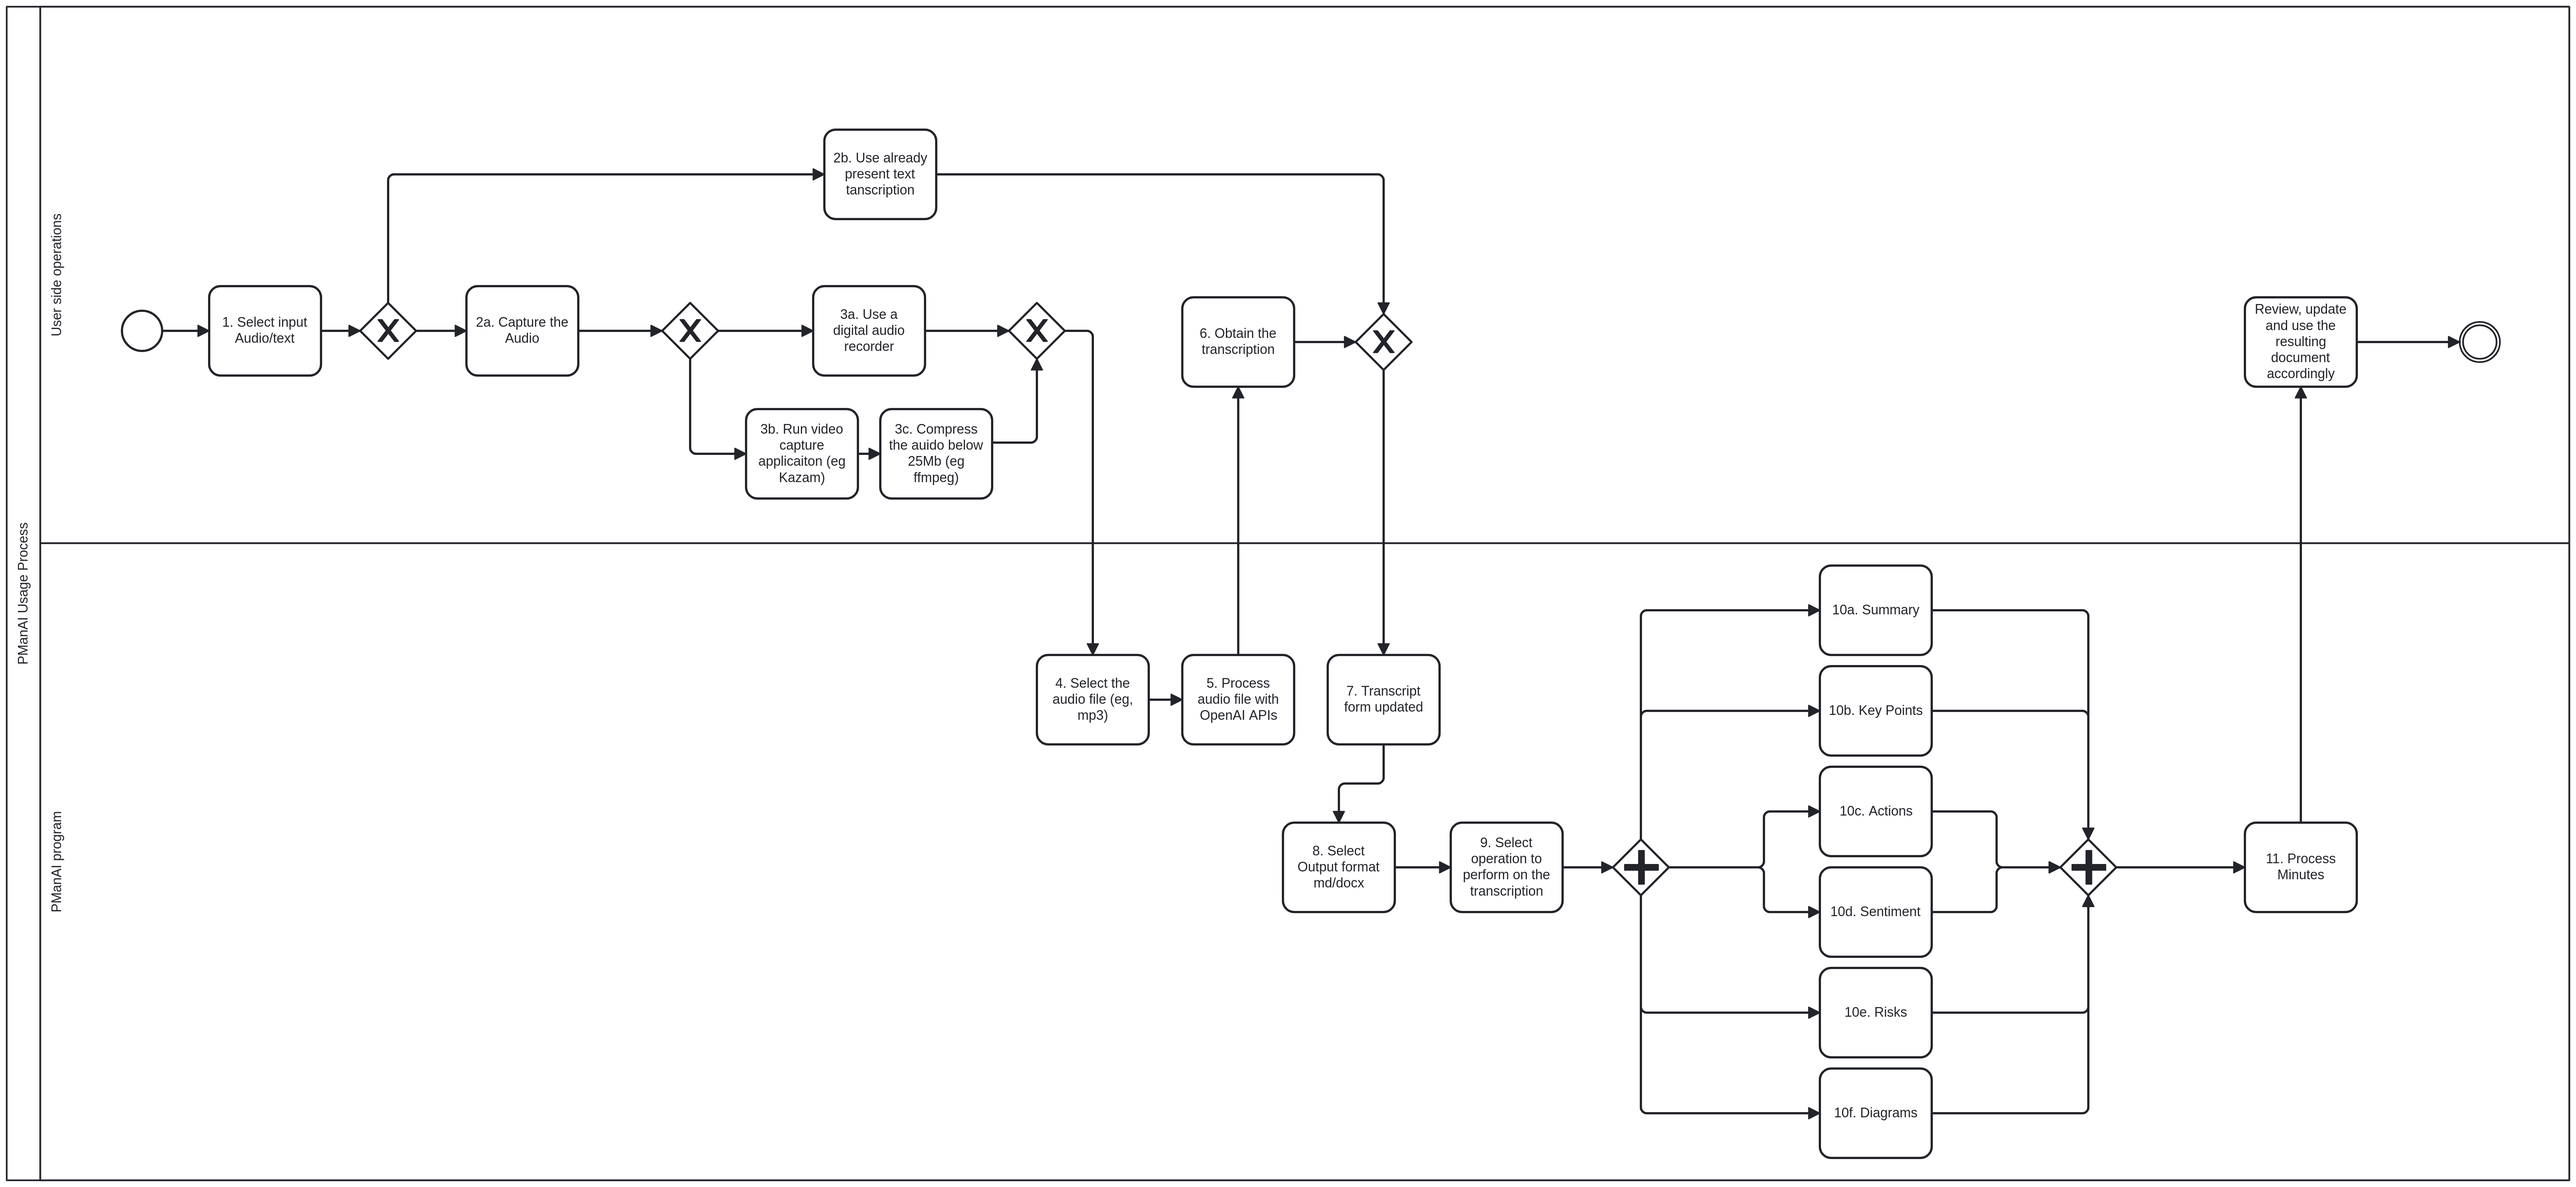
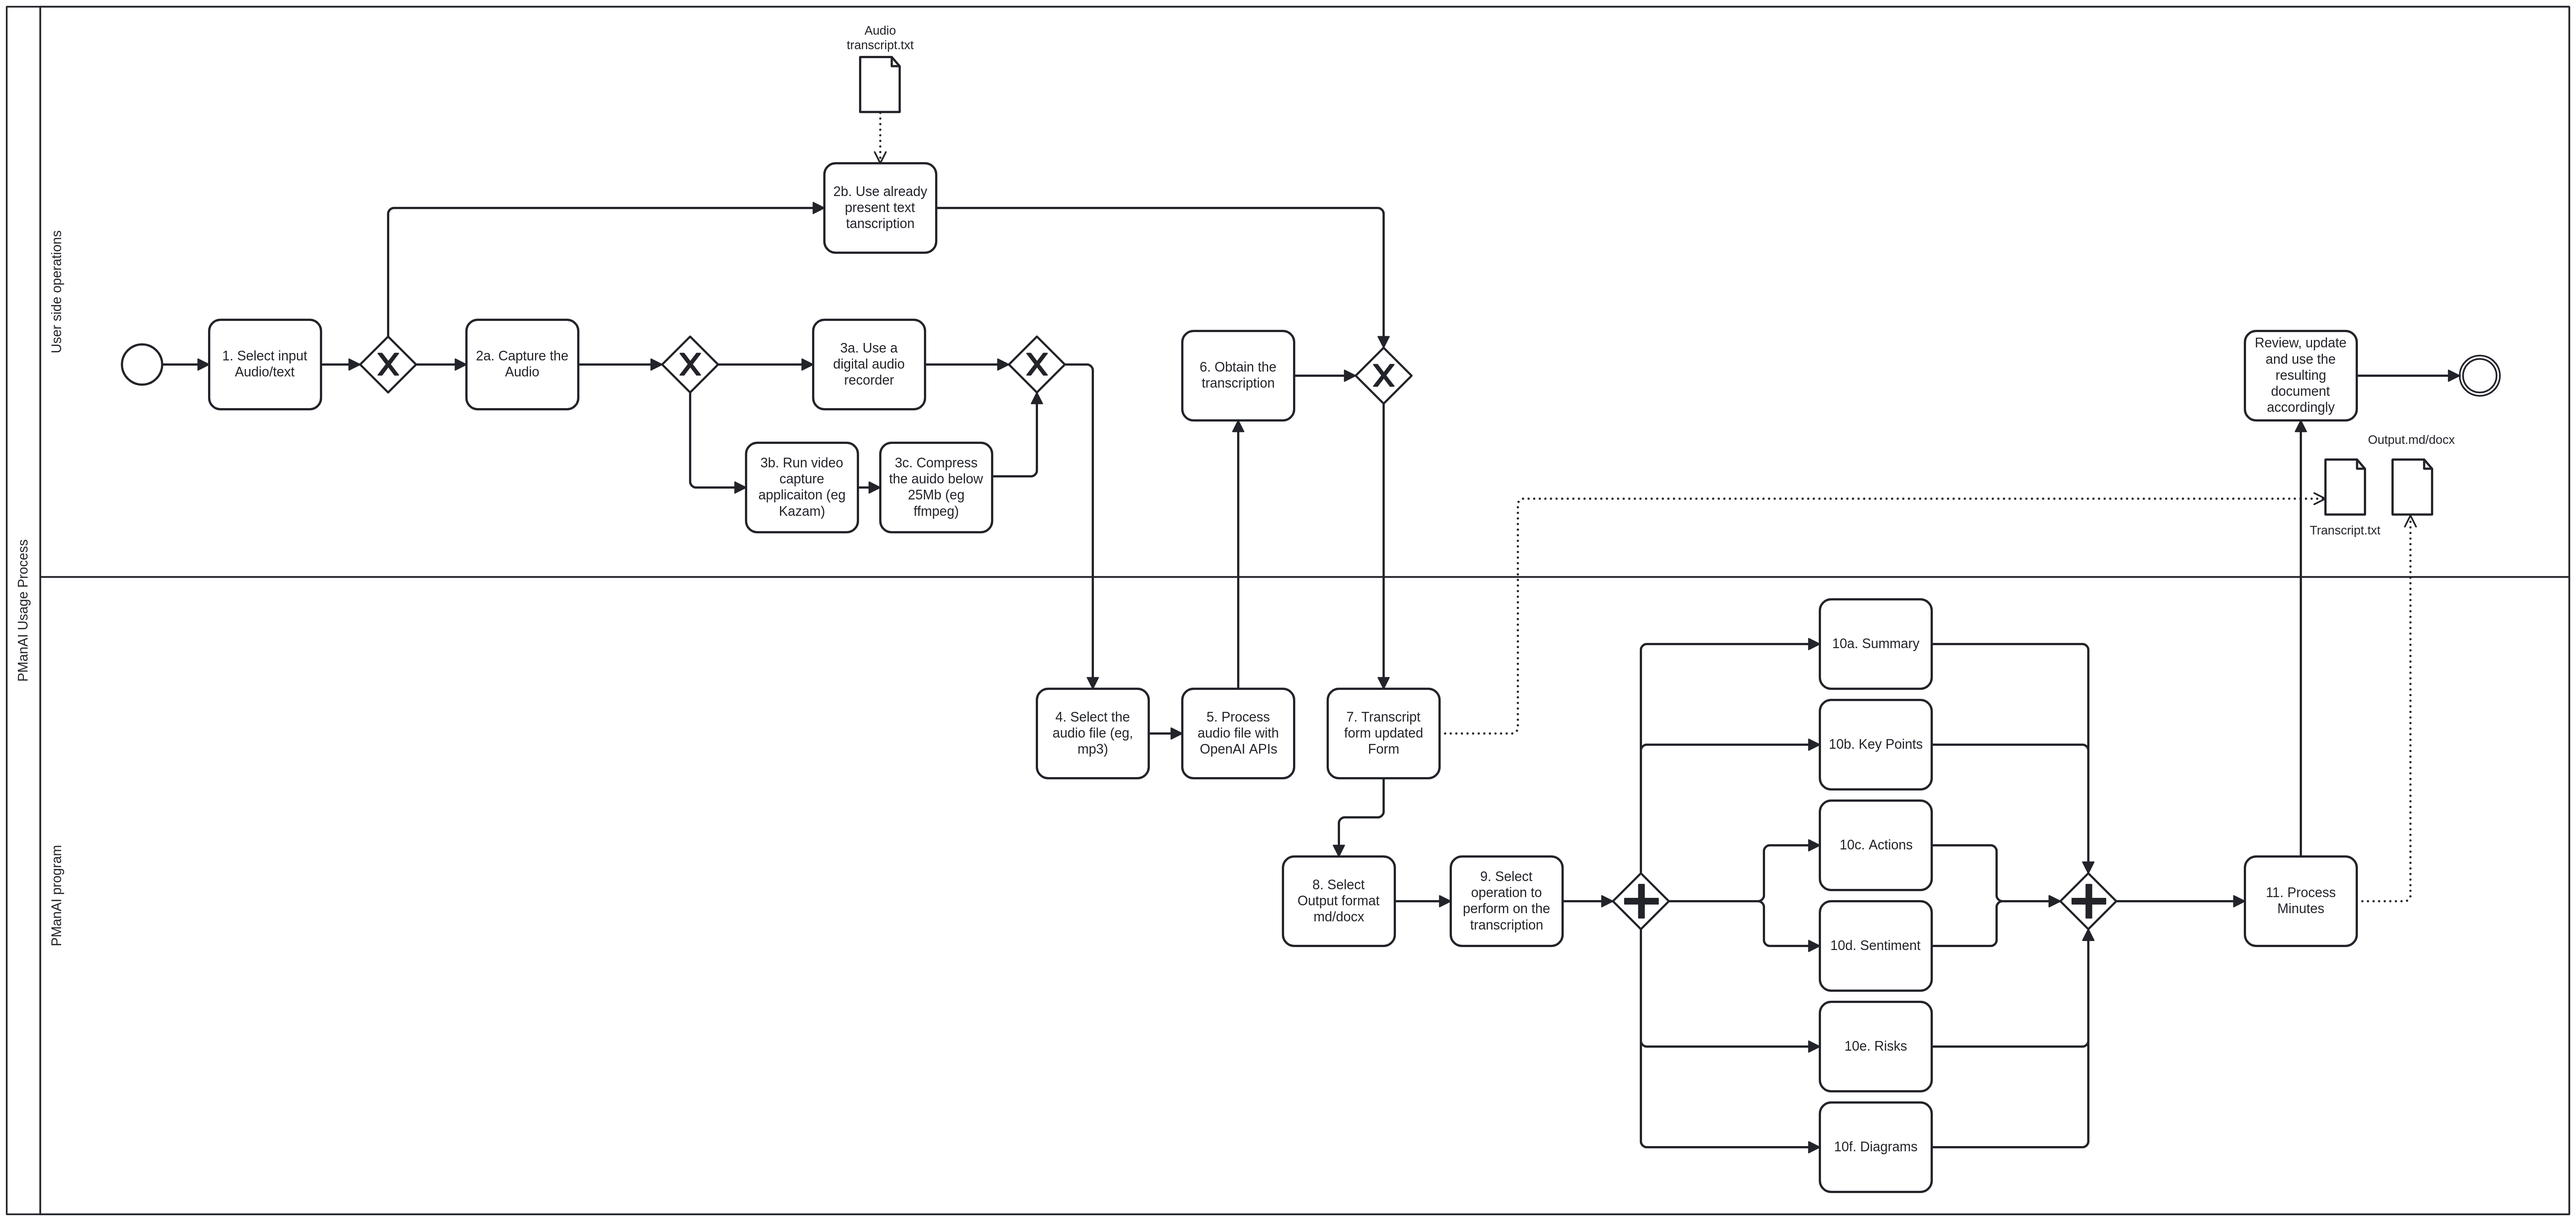
Added functionalities specific for meetings (clean, reduce, and minutes)

diff --git a/src/api_handler/openai_integration.py b/src/api_handler/openai_integration.py
@@ -5,6 +5,79 @@ def transcribe_audio(audio_file_path):
         transcription = openai.Audio.transcribe("whisper-1", audio_file)
     return transcription['text']
 
+def minutes_extraction(transcription):
+    response = openai.ChatCompletion.create(
+        model="gpt-4",
+        temperature=0,
+        messages=[
+            {
+                "role": "system",
+                #"content": "You are a highly skilled AI trained in language comprehension and summarization. I would like you to read the following transcription of a meeting and summarize it into a meeting minutes report with: discussion points and Action items. The name of the partecipant that spoke the sentence is at the beginning of the line like in the example in ''' deimiter. \
+                "content": "The attenders of the meeting are at the beginning of each line (see example in ''' delimiter). Task: Produce a detailed report with the minutes of the meeting. Compose detailed meeting notes for each agenda item discussed during the meeting. Highlight important insights, outcomes, and any unresolved issues for further consideration.\
+'''#Input\
+Raf: I say something related to the to the meeting.\
+Pippo: Contribute to the meeting with something that is written here.\
+Output \
+#Meeting Minutes\
+\
+**Date:** [Insert Date]\
+**Time:** [Insert Time]\
+**Location:** [Insert Location]\
+**Attendees:** Raf, Pippo.\
+### Discussion Points\
+...\
+\
+### Actions Items\
+...\
+\
+### Next Meeting: TBD\
+'''"
+            },
+            {
+                "role": "user",
+                "content": transcription
+            }
+        ]
+    )
+    return response['choices'][0]['message']['content']
+
+
+def clean_transcription(transcription):
+    response = openai.ChatCompletion.create(
+        model="gpt-3.5-turbo",
+        temperature=0,
+        messages=[
+            {
+                "role": "system",
+                "content": "You are a highly skilled AI trained in language comprehension. I would like you to parse the following raw transcription of a meeting and clean it from  greetings and interjections"
+            },
+            {
+                "role": "user",
+                "content": transcription
+            }
+        ]
+    )
+    return response['choices'][0]['message']['content']
+
+def reduce_transcription(transcription):
+    response = openai.ChatCompletion.create(
+        model="gpt-4",
+        temperature=0,
+        messages=[
+            {
+                "role": "system",
+                "content": "You are a highly skilled AI trained in language comprehension. I would like you to parse the following raw transcription of a meeting, clean it from  greetings and interjections, and remove the redundant information, preserving the answers and the questions."
+            },
+            {
+                "role": "user",
+                "content": transcription
+            }
+        ]
+    )
+    return response['choices'][0]['message']['content']
+
+
+
 def abstract_summary_extraction(transcription):
     response = openai.ChatCompletion.create(
         model="gpt-4",

diff --git a/src/gui/main_window.py b/src/gui/main_window.py
@@ -2,6 +2,9 @@ import tkinter as tk
 from tkinter import filedialog, messagebox
 from api_handler.openai_integration import (
     abstract_summary_extraction,
+    minutes_extraction,
+    clean_transcription,
+    reduce_transcription,
     key_points_extraction,
     risks_extraction,
     action_item_extraction,
@@ -69,7 +72,7 @@ class MainWindow(tk.Frame):
         self.transcription_text.pack()
         # Checkboxes for meeting minute components
         self.checks = {}
-        for comp in ["Abstract Summary", "Key Points", "Sentiment", "Risks", "Action Items", "Diagram"]:
+        for comp in ["Clean Trans", "Reduce Trans", "Abstract Summary", "Key Points", "Sentiment", "Meeting Minutes", "Risks", "Action Items", "Diagram"]:
             self.checks[comp] = tk.BooleanVar()
             tk.Checkbutton(self.action_frame, text=comp, variable=self.checks[comp]).pack(side = tk.LEFT, padx = 5)
 
@@ -137,9 +140,18 @@ class MainWindow(tk.Frame):
 
     def generate_meeting_minutes(self, transcription):
         minutes = {}
+        if self.checks["Clean Trans"].get():
+            print("Cleaning")
+            minutes['clean_transcription'] = clean_transcription(transcription)
+        if self.checks["Reduce Trans"].get():
+            print("Reducing")
+            minutes['reduce_transcription'] = reduce_transcription(transcription)
         if self.checks["Abstract Summary"].get():
             print("summary")
             minutes['abstract_summary'] = abstract_summary_extraction(transcription)
+        if self.checks["Meeting Minutes"].get():
+            print("minutes`")
+            minutes['meeting_minutes'] = minutes_extraction(transcription)
         if self.checks["Key Points"].get():
             print("Key points")
             minutes['key_points'] = key_points_extraction(transcription)
